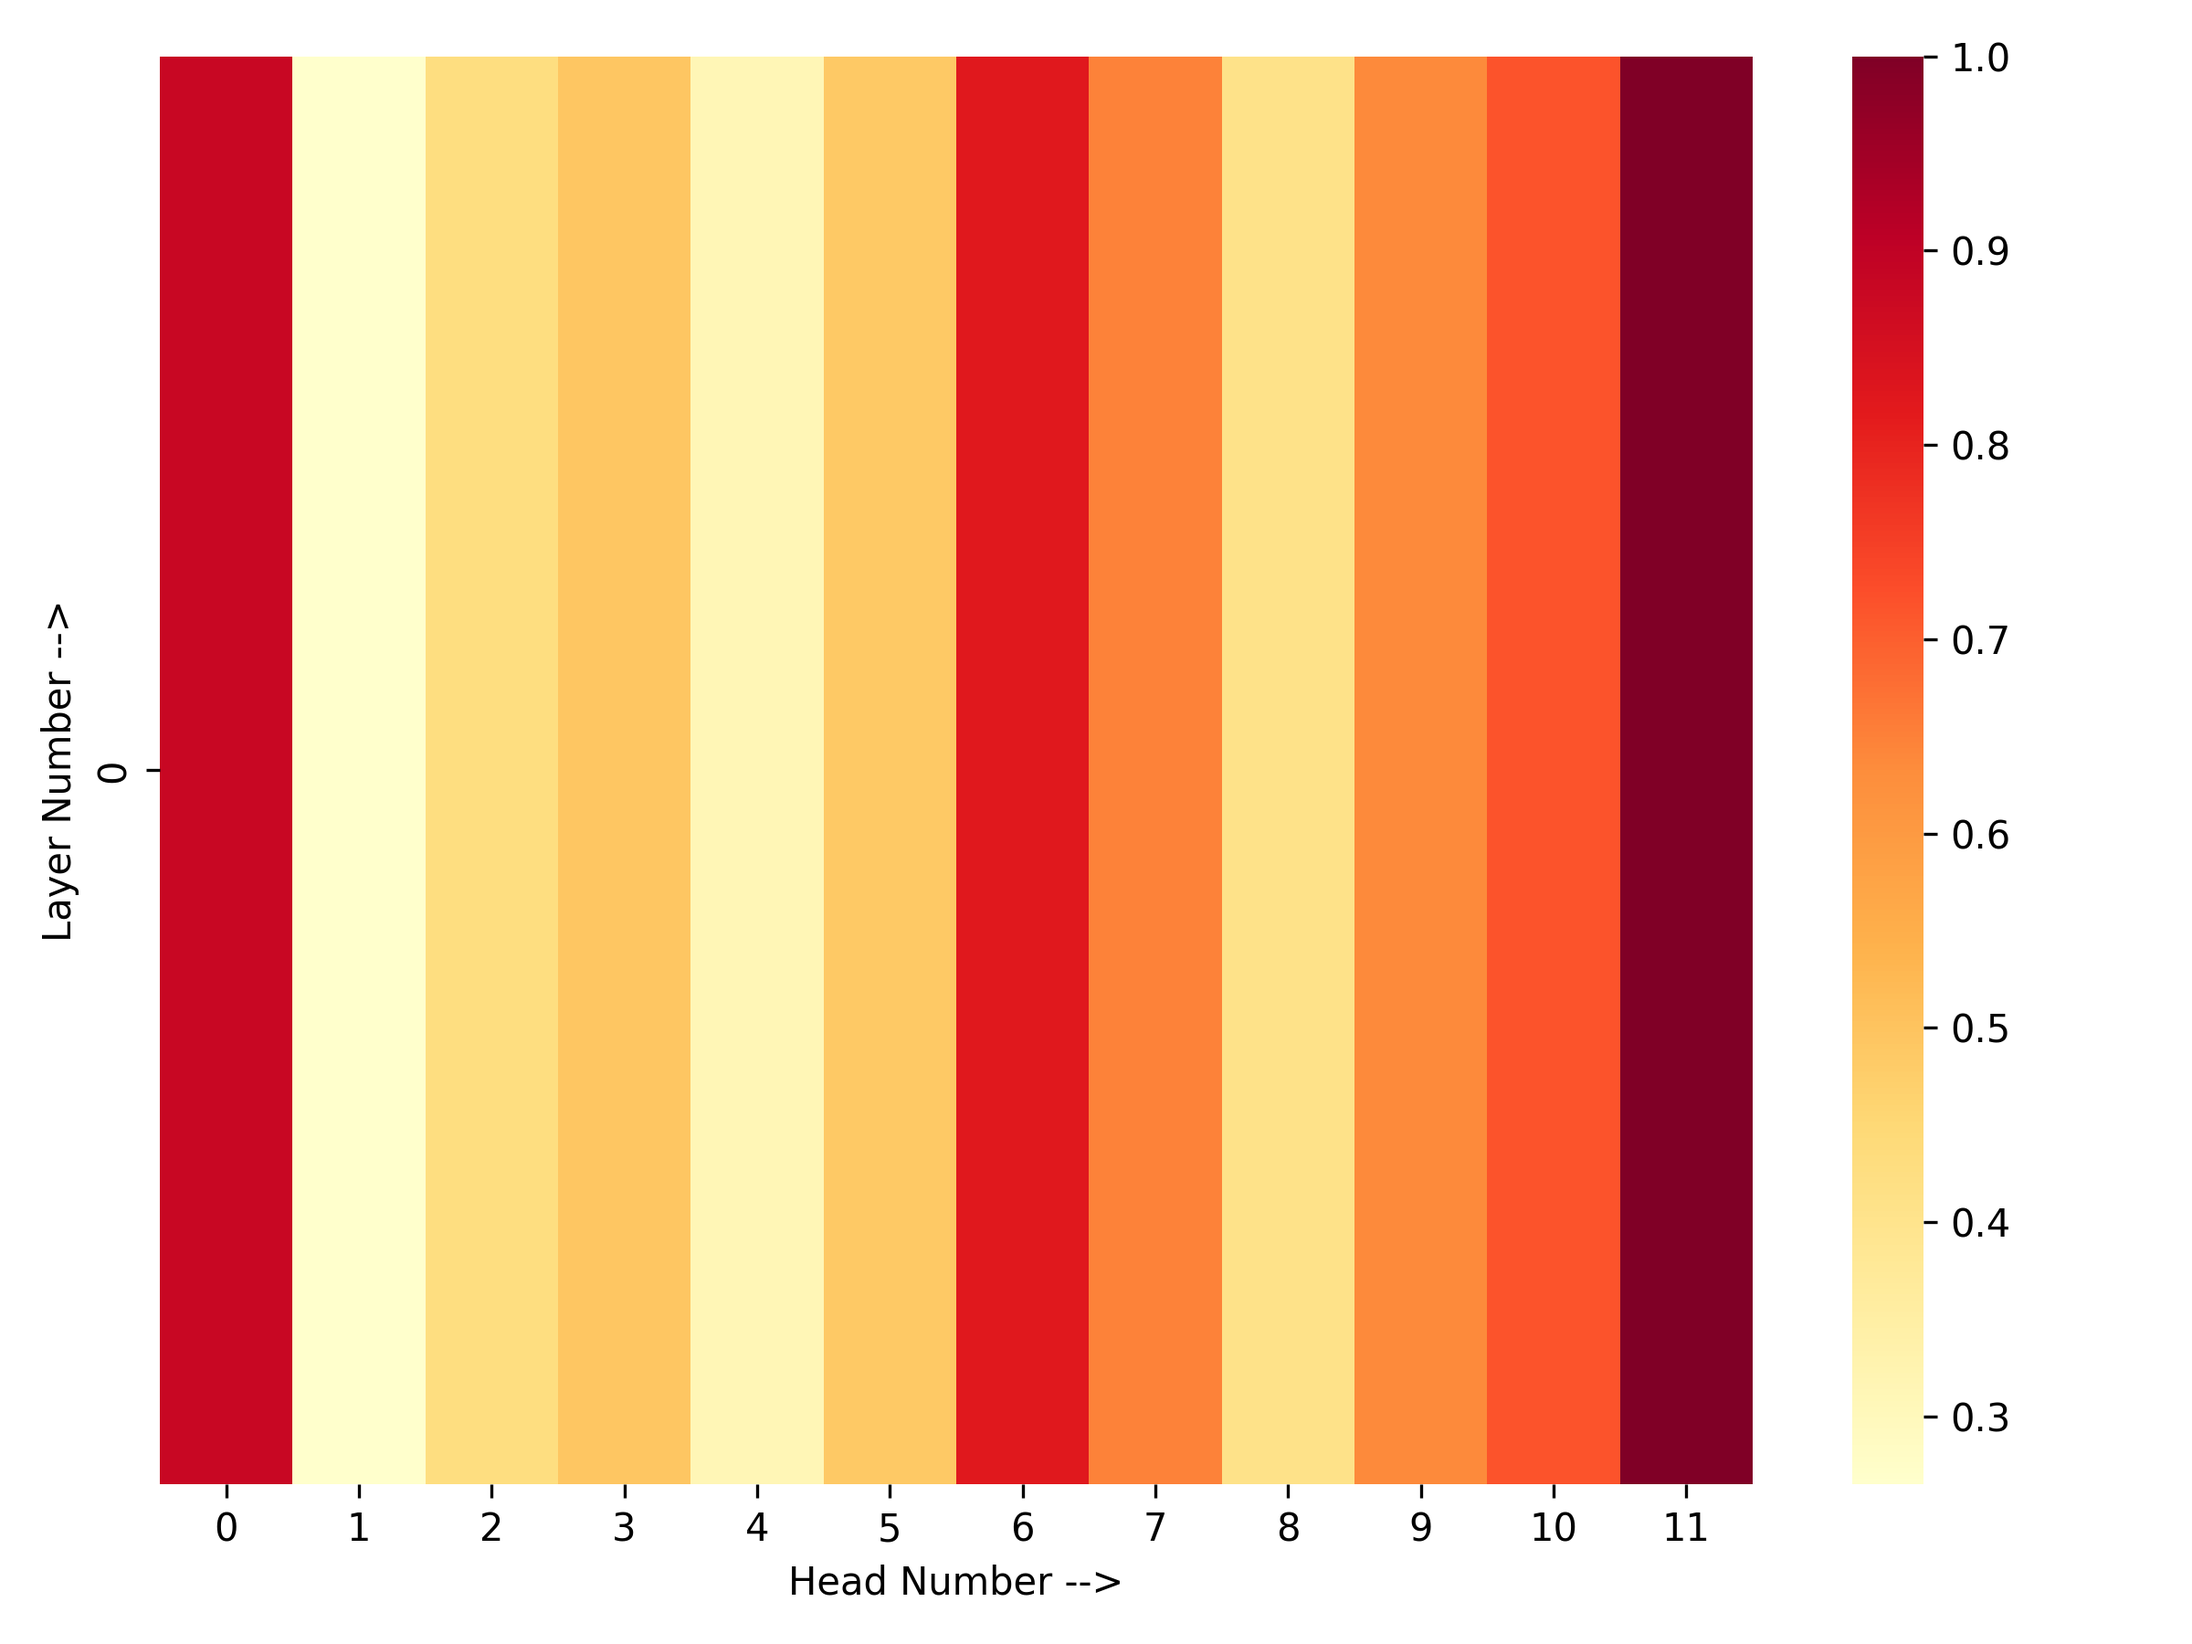
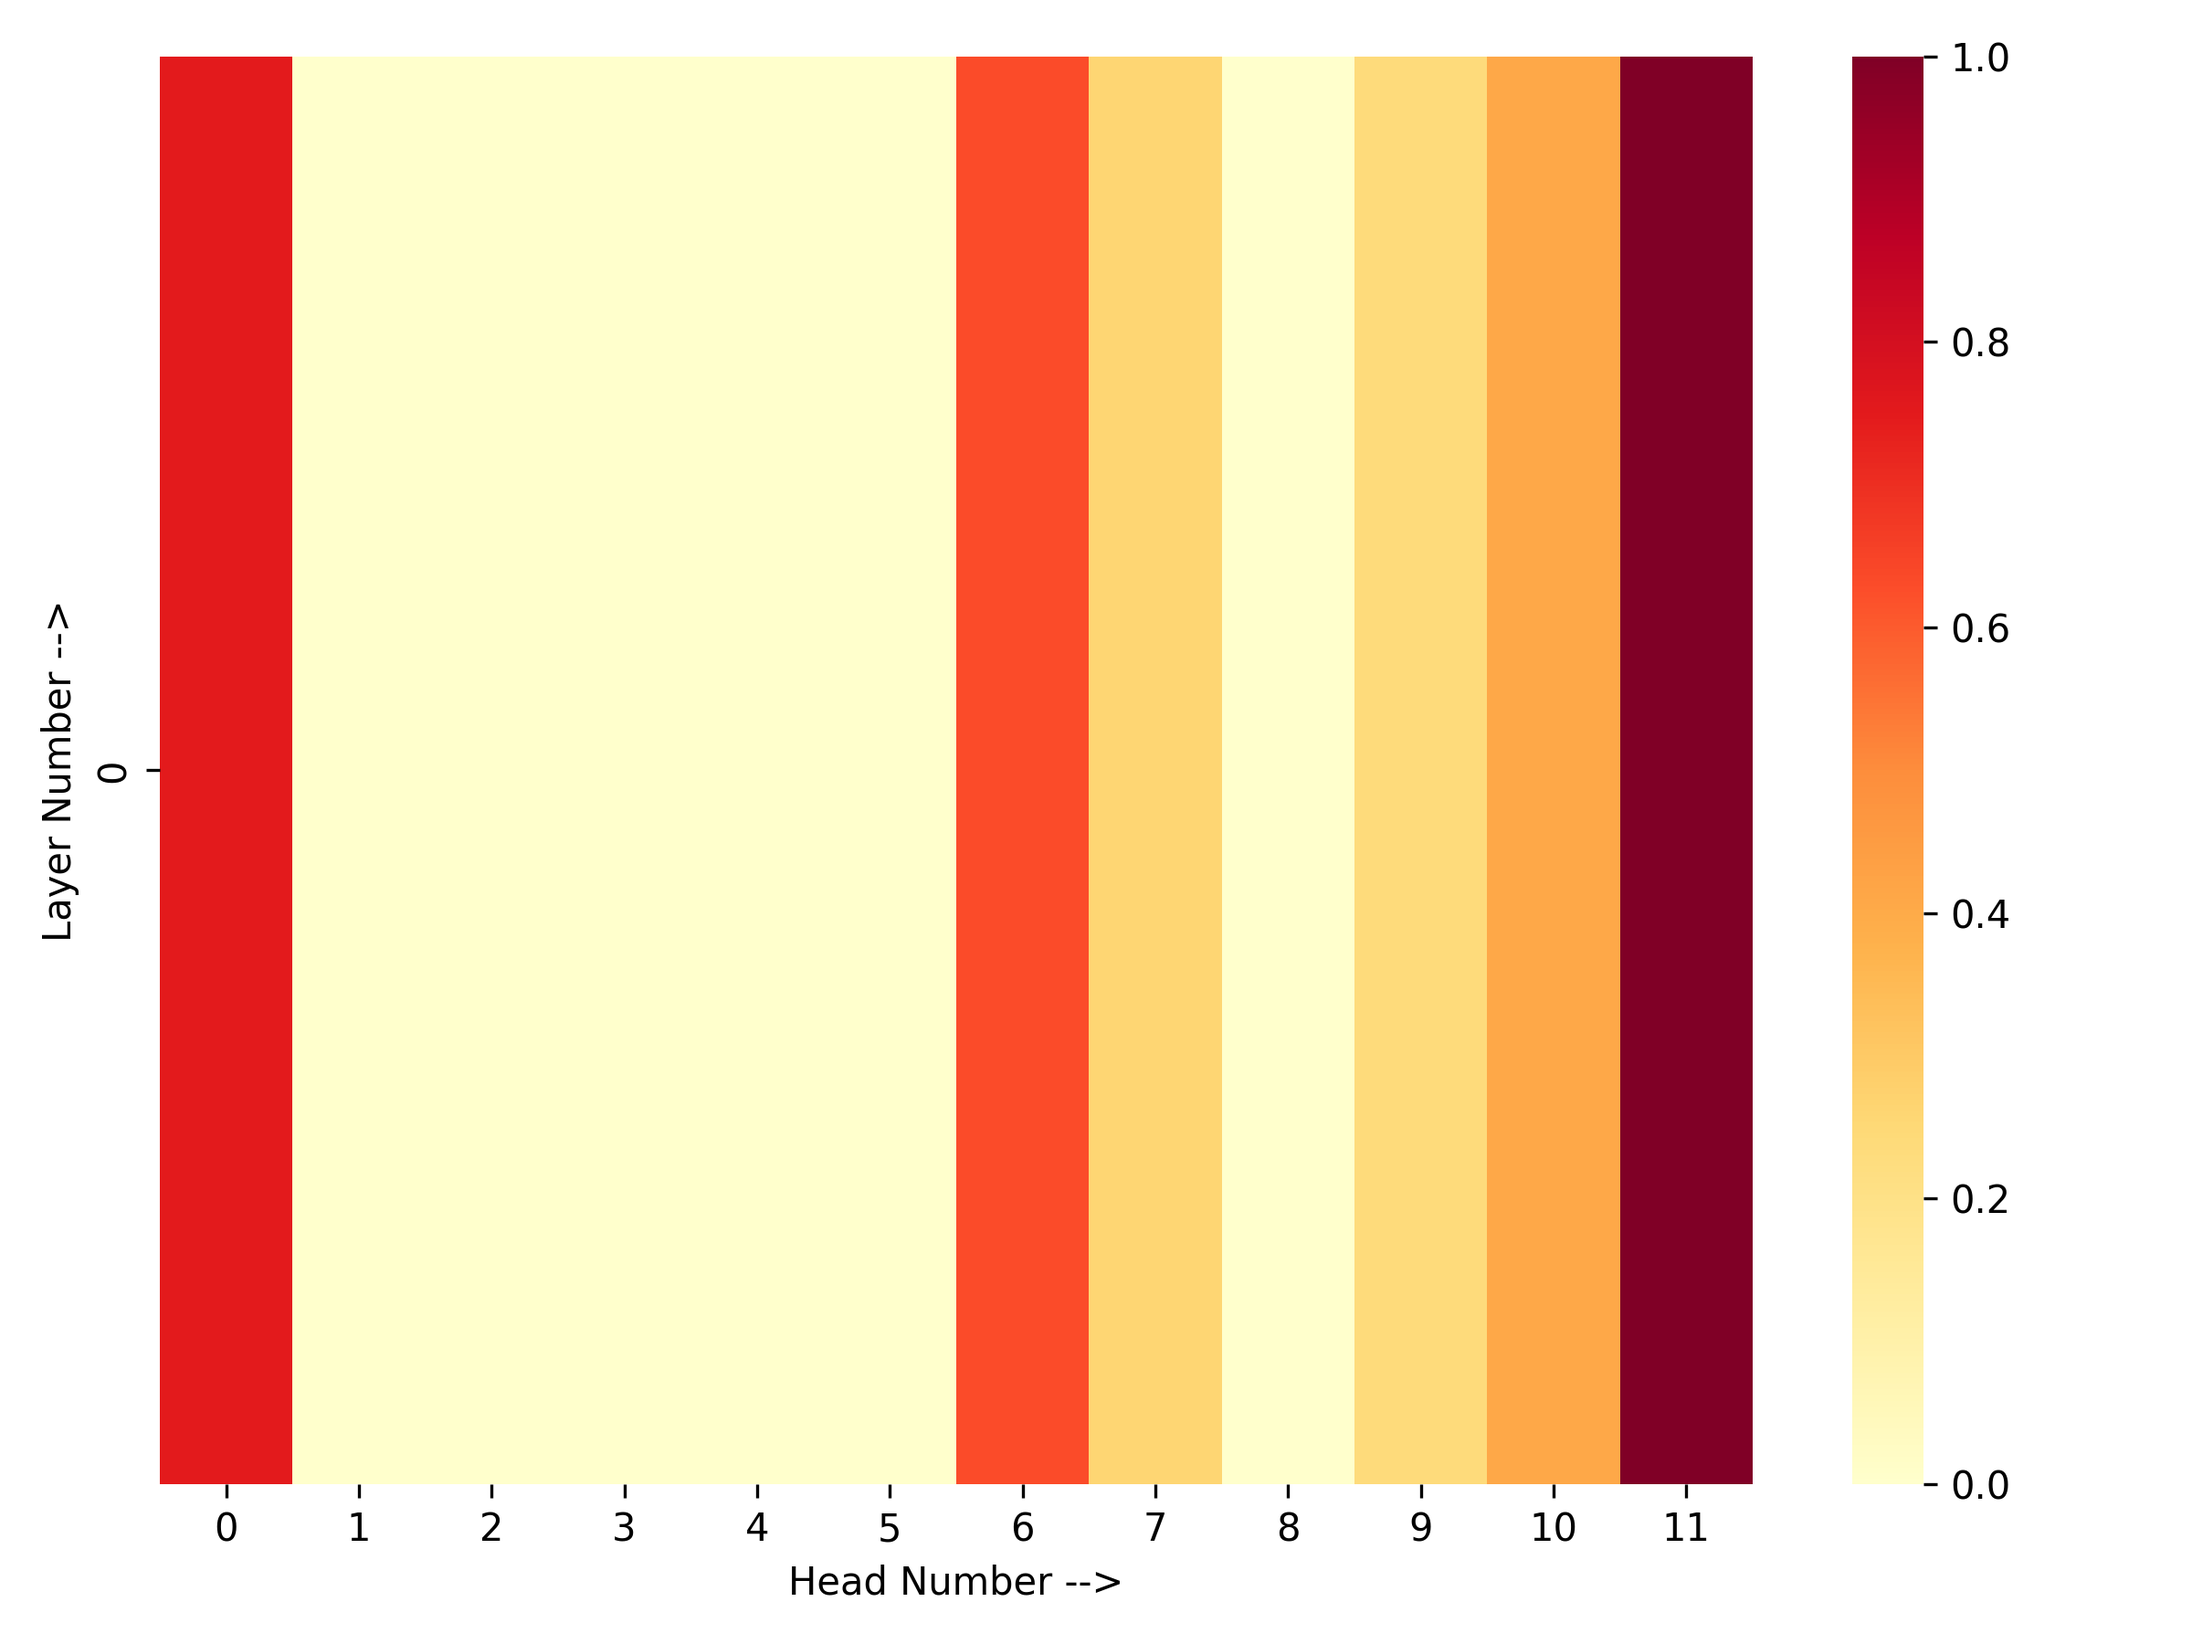
added layer pruning heatmap results

diff --git a/code/evaluation.py b/code/evaluation.py
@@ -316,7 +316,7 @@ if __name__ == "__main__":
             create_heatmap_for_metric(icat_scores_race, base_icat_scores_race, 'Heatmap of ICAT Scores (Race)', "bert/ICAT_score_race.png")
 
 
-        elif(args.all_heads_pruning or args.all_layer_pruning):
+        elif(args.all_heads_pruning or args.layer_pruning):
     
             # Function to create heatmap for SS and ICAT
             def create_heatmap_allheads_for_metric(scores, base_scores, title, filename, ss_check = False):
@@ -356,9 +356,9 @@ if __name__ == "__main__":
             # sort based on layer_names
             if(args.all_heads_pruning):
                 prediction_files = sorted(glob(os.path.join(predictions_dir, '*_allheadspruning_*.json')),key=extract_pruning_index)
-            elif(args.all_layer_pruning):
+            elif(args.layer_pruning):
                 prediction_files = sorted(glob(os.path.join(predictions_dir, '*_layerpruning_*.json')),key=extract_pruning_index)
-            prediction_files.append('predictions_bert/predictions_bert-base-cased_BertNextSentence_BertLM.json')
+            prediction_files.append('predictions_roberta/predictions_roberta-base_BertNextSentence_RoBERTaLM.json')
 
             # Initialize vectors for SS Score and ICAT Score for both gender and race (for pruning)
             lm_scores_gender = np.zeros((12,12))

diff --git a/README.md b/README.md
@@ -21,5 +21,5 @@ python3 eval_pruned_discriminative_models.py --pretrained-class roberta-base --t
 
 cd code/
 
-python3 evaluation.py --gold-file ../data/dev.json --predictions-dir predictions/
+python3 evaluation.py --gold-file ../data/dev.json --predictions-dir predictions_bert/
 
